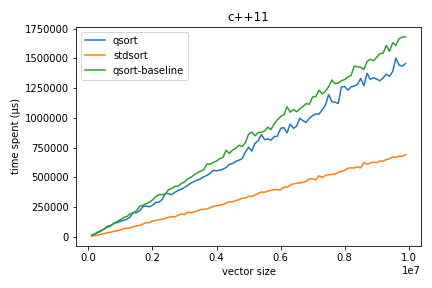
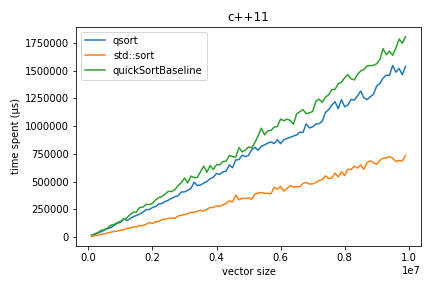
Tried to use better random

diff --git a/Main.java b/Main.java
@@ -1,5 +1,6 @@
-import java.util.Random;
 import java.util.Arrays;
+import java.util.Random;
+import java.security.SecureRandom;
 
 enum Algo {
     ARRAYS_SORT
@@ -17,11 +18,11 @@ public class Main {
         }
         int interval = Integer.valueOf(args[1]);
         int maxN = Integer.valueOf(args[2]);
-        Random rd = new Random();
+        Random rd = new SecureRandom();
         for (int n = interval; n < maxN; n += interval) {
             int[] arr = new int[n];
             for (int i = 0; i < arr.length; i++) {
-                arr[i] = rd.nextInt();
+                arr[i] = rd.nextInt(Integer.MAX_VALUE);
             }
 
             long start_ns = System.nanoTime();

diff --git a/util.hpp b/util.hpp
@@ -5,6 +5,7 @@
 #include <vector>
 #include "assert.h"
 #include <chrono>
+#include <random>
 #include "stdlib.h"
 
 using namespace std::chrono;
@@ -23,9 +24,13 @@ private:
 };
 
 std::vector<int> getRandIntList(int N) {
+    std::random_device rd;
+    std::mt19937 gen(rd());
+    std::uniform_int_distribution<> dis(1, INT_MAX);
+
     std::vector<int> ret;
     for (int i = 0; i < N; i++) {
-        ret.push_back(rand());
+        ret.push_back(dis(gen));
     }
     return ret;
 }

diff --git a/main.py b/main.py
@@ -14,8 +14,13 @@ max_n = int(sys.argv[3])
 
 MAX_INT = 2**32
 
+sysrand = random.SystemRandom()
+
+start_time = time.time()
 for n in range(interval, max_n, interval):
-    xs = [random.randint(0, MAX_INT) for _ in range(n)]
+    xs = [sysrand.randint(0, MAX_INT) for _ in range(n)]
     now = time.time()
     _ = sorted(xs)
     print(str(n) + " " + str((time.time() - now) * 1e6))
+    if time.time() - start_time > 300:
+        break

diff --git a/README.md b/README.md
@@ -29,7 +29,9 @@ From our [benchmark](explore.ipynb), it seems that the complexity of all algorit
 
 Why?
 
+NOTE:
 
+- All random numbers are real random (`random_device`, `SecureRandom` and `SystemRandom`).
 
 ## C++11
 
